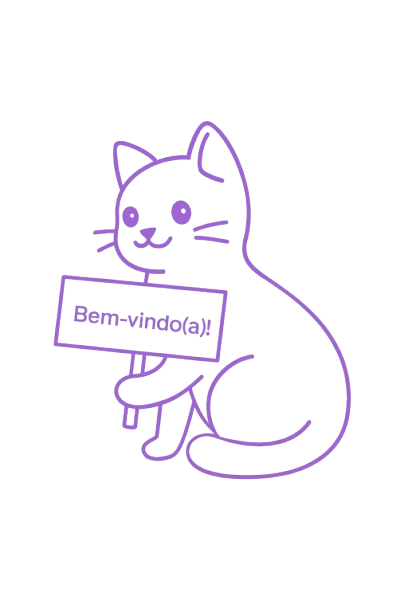
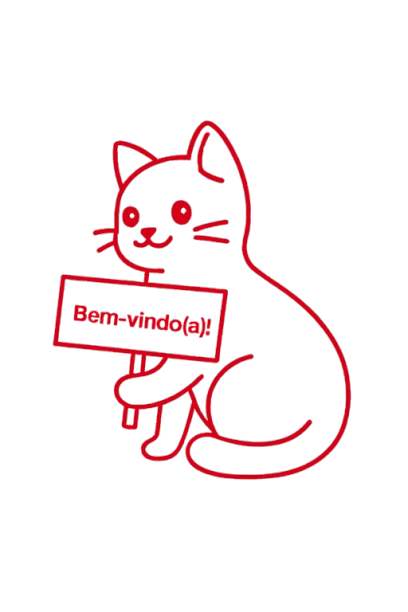
botei vermelho

diff --git a/frontend/src/pages/Home.jsx b/frontend/src/pages/Home.jsx
@@ -57,7 +57,7 @@ export default function Home() {
             <motion.div initial={{ opacity: 0, y: 20 }} animate={{ opacity: 1, y: 0 }} transition={{ duration: 0.6, delay: 0.2 }} className="container-saldo/Historico" style={{ gap: 12 }}>
               <div style={{ flex: 1, minWidth: 220 }} className="card-saldo">
                 <div style={{ fontSize: 12, color: "#6b7280" }}>Saldo disponível</div>
-                <div style={{ fontSize: 22, fontWeight: 800, marginTop: 6, color:"rgba(123, 39, 192, 0.77)"}}>
+                <div style={{ fontSize: 22, fontWeight: 800, marginTop: 6, color:"#E11C47"}}>
                   R$ {Number(saldo).toLocaleString("pt-BR", { minimumFractionDigits: 2 })}
                 </div>
                 <div className="small" style={{ marginTop: 8, color: "#6b7280" }}>
@@ -70,7 +70,7 @@ export default function Home() {
                   <div style={{ marginTop: 8 }} className="small">Carregando...</div>
                 ) : ultima ? (
                   <div style={{ marginTop: 6 }}>
-                    <div style={{ fontWeight: 700, color:"rgba(123, 39, 192, 0.77)" }}>
+                    <div style={{ fontWeight: 700, color:"#E11C47" }}>
                       R$ {Number(ultima.valor).toLocaleString("pt-BR", { minimumFractionDigits: 2 })} → {ultima.destinatario}
                     </div>
                   </div>
@@ -98,7 +98,7 @@ export default function Home() {
           rel="noopener noreferrer"
           style={{
             fontSize: 13,
-            color: "#6b21a8",
+            color: "#E11C47",
             textDecoration: "none",
             fontWeight: 600,
             display: "inline-flex",

diff --git a/frontend/src/index.css b/frontend/src/index.css
@@ -4,7 +4,7 @@
   --card: #ffffff;
   --muted: #6b7280;
   --primary: #0f766e;
-  --purple: rgba(123, 39, 192, 0.77);
+  --purple: #E11C47;
   --accent: #10b981;
   --danger: #ef4444;
   --border: #e6e9ee;
@@ -32,11 +32,14 @@ html,body,#root { height: 100%; margin: 0; background: var(--bg); color: #0f172a
 }
 
 .container-top {
-  background-color: rgba(123, 39, 192, 0.77);
+  background-color: #E11C47;
   padding-left: 10px;
   padding-right: 10px;
   padding-top: 8px;
   padding-bottom: 5px;
+  border-bottom-left-radius: 24px;
+  border-bottom-right-radius: 24px;
+  margin-bottom: 20px;
 }
 
 .user-title {
@@ -108,7 +111,7 @@ html,body,#root { height: 100%; margin: 0; background: var(--bg); color: #0f172a
 }
 .label {
   margin-top: 25px;
-  color: rgba(123, 39, 192, 0.77);
+  color: #E11C47;
 }
 .history-top-container {
   display: flex;

diff --git a/frontend/src/components/BottomMenu.jsx b/frontend/src/components/BottomMenu.jsx
@@ -31,17 +31,17 @@ export default function BottomMenu() {
       }}
     >
       <Link to="/" style={iconStyle}>
-        <Home size={22} stroke={pathname === "/" ? "#7c3aed" : "#000"} />
+        <Home size={22} stroke={pathname === "/" ? "#E11C47" : "#000"} />
       </Link>
 
       <Link to="/enviar" style={iconStyle}>
-        <Send size={22} stroke={pathname === "/enviar" ? "#7c3aed" : "#000"} />
+        <Send size={22} stroke={pathname === "/enviar" ? "#E11C47" : "#000"} />
       </Link>
 
       <Link to="/historico" style={iconStyle}>
         <History
           size={22}
-          stroke={pathname === "/historico" ? "#7c3aed" : "#000"}
+          stroke={pathname === "/historico" ? "#E11C47" : "#000"}
         />
       </Link>
     </div>
